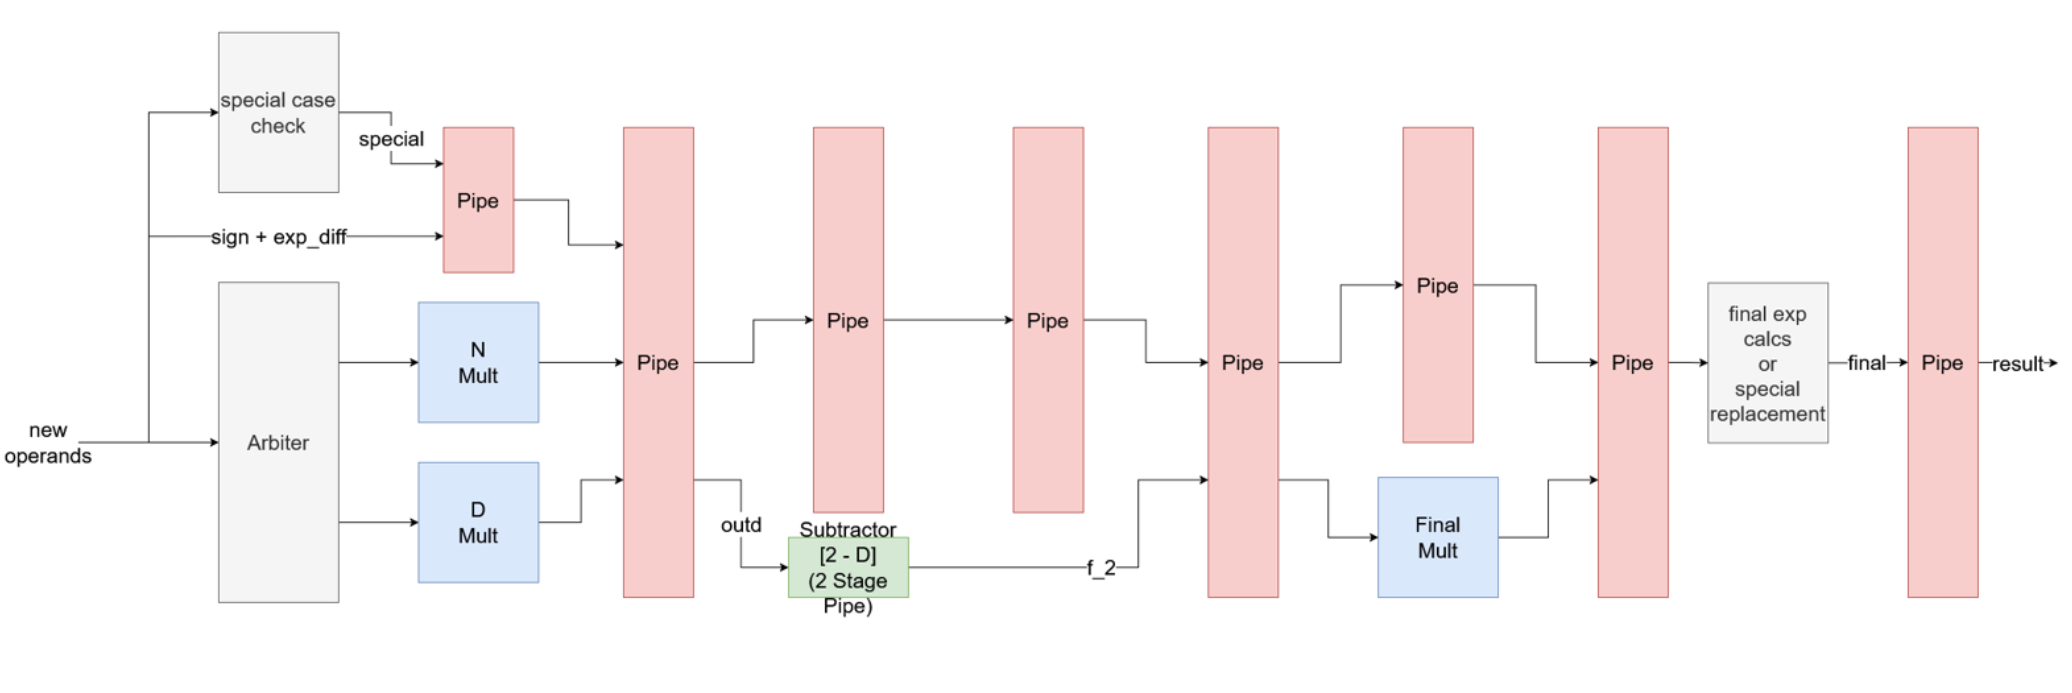
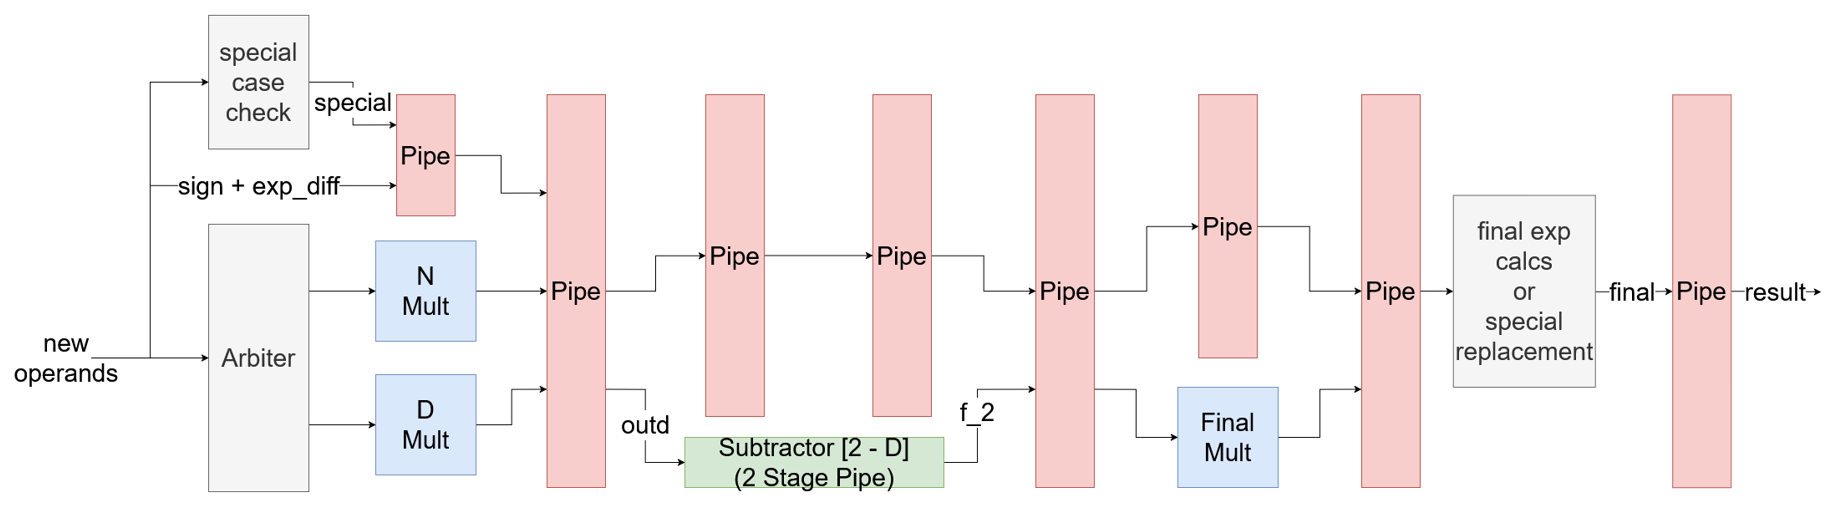
saving

diff --git a/docs/src/architecture/divider.md b/docs/src/architecture/divider.md
@@ -9,8 +9,53 @@ Roy, T. D. (2019). Implementation of Goldschmidt's algorithm with hardware reduc
 The Divider is a fully pipelined floating-point division unit optimized for the BF16 (Brain Floating Point) format. Rather than using slow, traditional digit-recurrence algorithms (like SRT or restoring division) which require long and deep subtraction chains, this implements the **Goldschmidt Division Algorithm**.
 To optimize for PPA (Power, Performance, Area) targets within the accelerator, we implement two distinct divider implementations that share the same underlying algorithm: an Area-Optimized 2-Multiplier design, and a Throughput-Optimized 3-Multiplier design.
 
-### Shared Algorithm & The "Magic Number"
+## Goldschmidt Algorithm
 The Goldschmidt algorithm computes N / D by repeatedly multiplying both the numerator (N) and denominator (D) by a sequence of factors (F) such that the denominator converges toward 1.0. As D approaches 1.0, N approaches the final quotient.
+
+```
+      F0 = initial guess;
+
+Iteration 1: N1 = N * F0 
+             D1 = D * F0 
+             F1 = 2.0 - D1
+
+Iteration 2: N2 = N1 * F1 
+             D2 = D1 * F1
+             F2 = 2.0 - F1
+
+Iteration 3: ....
+             ....
+             ....
+
+Iteration i-1: ...
+
+Iteration i: N(i) = N(i-1) * F(i-1)
+
+Final Answer: N(i)
+```
+
+While this can be done infinitely, accuracy does not increase infinitely. We found that in practice generally after 2-3 iterations a set of bf16 values the convergence caps and no longer changes the value.
+
+The primary differences in approaching the goldschmidt algorithm is how to get this initial guess. There are two methods that are known to be effective, an LUT table and using "magic number".
+
+### LUT
+
+The LUT method has an array of preset values, in which the initial guess of the goldschmidt method is selected through the mantissa bits directly mapping into an index value in the LUT table. 
+
+The LUT is the most commonly referred to method in selecting the initial guess for division, especially if area is not a large concern. Below is a python script that shows the methodology behind the generation. All that is being done is an accurate "in between" value between each step to best bring a denominator to the value of 1. 
+```
+entries = 16
+def generate_lut(size):
+    step = 1.0 / size
+    seeds = torch.zeros(size, dtype=torch.bfloat16)
+    for i in range(size):
+        a = 1.0 + (i * step)
+        b = 1.0 + ((i + 1) * step)
+        seeds[i] = 2.0 / (a + b)
+    return seeds
+```
+
+### The "Magic Number"
 
 To minimize the hardware iterations required, the algorithm needs a highly accurate initial guess of the reciprocal (1/D). Instead of wasting silicon area on a large Lookup Table (LUT) for this initial guess, both divider implementations utilize a **Constant Subtraction Trick (Magic Number)**. By exploiting the structure of the IEEE-754 / BF16 floating-point format, we can approximate the inverse by subtracting the denominator from a magic constant:
 
@@ -18,23 +63,68 @@ To minimize the hardware iterations required, the algorithm needs a highly accur
 
 This specific magic number (`16'h7EF3`) was calculated using a python script on all 16,384 possible BF16 mantissas. After two iterations, this specific number proved to have the lowest average [ULP](https://www.emmtrix.com/wiki/ULP_Difference_of_Float_Numbers) while also maintaining a **MAX ULP of 2**. This number is specific to BF16 and cannot be parameterized. An FP16 equivalent would be (`16'h775F`) however this would require 3 iterations of the goldschmidt algorithm.
 
-**The Iteration 2 Optimization:**
-Through testing in Python simulations, it is determined that only 2 iterations are needed to ensure a maximum ULP of 2. Because the algorithm only requires 2 iterations, the mathematical sequence looks like this:
+## Finalized Design Choices
+
+### Simulation
+Before deciding which design we'd stick to, we utilized a Python simulation to see if our math would work, as well giving ourselves the perspective to pick the design best suited for our needs. 
+
+Below is a picture of the simulated ULP error at each iteration of the Goldschmidt division algorithm using both a magic number and LUT approach. This was simulated using the PyTorch library in Python. Example pseudo code and simulated graph is below. 
+```
+def goldschmidt_div(method, dividend, divisor, iterations):
+    actual_q = float(n)/float(d)
+
+    if d == 0: return torch.tensor(float('nan'))
+
+    # Save Sign
+    sign = MSB of bf16
+    abs_n, abs_d = torch.tensor(abs(n), dtype=torch.bfloat16), torch.tensor(abs(d), dtype=torch.bfloat16)
+
+    mantissa_n, exp_n = math.frexp(abs_n.item())
+    mantissa_d, exp_d = math.frexp(abs_d.item())
+
+    # Normalization
+    n_w = mantissa_n * 2.0
+    d_w = mantissa_d * 2.0
+    if(LUT method)
+      idx = mantissa bits
+      f = lut[idx]
+    if(Magic method)
+      f = 0x7EF3 - abs_d
+
+    for _ in range(iterations):
+      n_w = n_w * f
+      d_w = d_w * f
+      f = 2.0 - d_w
+
+    final_val = sign * n_w * (2.0**(exp_n - exp_d))
+    res_bf = final_val.to(torch.bfloat16)
+    ulp_err = calculate_ulp_error(final_val, actual_q)
+    return res_bf, ulp_err
+```
+
+![ULP_Analysis](../img/Goldschmidt_ULP_Analysis.jpg)
+
+The LUT simulated is only a 16 elements large, which is the smallest LUT possible while maintaining a maximum of 1 ULP. Obviously a larger LUT (most appropriately a 128 elemnt one for each mantissa bit) will greatly improve average ULP, but it comes at the great cost of significaltly more area per divider. 
+
+As it can be seen the LUT methodology outperforms the magic number in worst ULP, but but loses in consistancy. It is important to note that we are creating an alternative to the IEEE slow method, in which it takes 11 cycles with perfect accuracy, but is neither pipelined, nor able to take multiple inputs in flight. Our goal is speed and efficiency. The LUT with more area is on average worse than the magic number, and would require an even larger area cost to simply exceed the magic number in both average ULP and worst ULP. These area costs are simply not worth the marginal accuracy benefits that can be provided with a singular value. 
+
+
+**Final Design Choices:**
+In our python simulation we also see that among both methodologies it is determined that only 2 iterations are needed to ensure a maximum ULP of 1-2 and any more iterations do not effect the ULP. Because the algorithm only requires 2 iterations, the mathematical sequence looks like this:
 
 ```
       F0 = 16'h7EF3 - D;
 
-Iteration 1: N1 = N * F0 |
-             D1 = D * F0 |
+Iteration 1: N1 = N * F0 
+             D1 = D * F0 
              F1 = 2.0 - D1
 
-Iteration 2: N2 = N1 * F1 |
-             D2 = D1 * F1
+Iteration 2: N2 = N1 * F1
 
       Result = N2
 ```
 
-### 2 Multiplier Design
+## 2 Multiplier Design
 *Primary Author: Akhil Yada*
 
 This architecture instantiates **2 Multipliers and 1 Subtractor** and utilizes a Loopback Pipeline Architecture (a "Carousel") to share the hardware across both iterations.
@@ -61,9 +151,9 @@ Because every division must pass through the shared 1-cycle multipliers and 2-cy
 
 Below is a block diagram and RTL diagram of the design
 
-![2MulDesign](img/2-Multiplier-Divider.png)
+![2MulDesign](../img/2-Multiplier-Divider.png)
 
-### 3 Multiplier Design
+## 3 Multiplier Design
 *Primary Author: Brian Zhuang*
 
 This architecture instantiates **3 Multipliers and 1 Subtractor** and is completely pipelined. 
@@ -87,17 +177,13 @@ The pipe enable signals controls traffic and goes low when backpressure occurs (
 The divider being fully pipelined achieves an **Effective CPI of 1.0** with max throughput. It also acheieves a max ULP of 2.0 and a average ULP of around 0.5, a value slightly lower than predicted.
 
 Below is a block diagram and RTL diagram of the design
-![3MulDesign](img/pipeline_block.png)
+![3MulBlock](../img/pipeline_block.png)
+![3MulRTL](../img/pipeline_rtl.png)
 
-### Comparison
+## Comparison
 Below is a table of results for both dividers. The ULP numbers are pulled from a test of all possible mantissas (16,384). Note that subnormals have been excluded as their ULP numbers will always be 0. The target frequency to obtain the synthesis number was 555 MHz, and the process node was MITLL90nm.
 
 | Divider Version | # of 0 ULP | # of 1 ULP | # of 2 ULP | Avg ULP | Max ULP | Total Area (um^2) |
 |---|---|---|---|---|---|---|
 | 2-Multiplier Design | 8,687 | 7,052 | 645 | 0.51 | 2 | 18433.437 |
 | 3-Multiplier Design | 8,687 | 7,052 | 645 | 0.51 | 2 | 22283.246 |
-
-### Simulation
-Below is a picture of the simulated ULP error at each iteration of the Goldschmidt division algorithm using both a magic number and LUT approach. This was simulated using the PyTorch library in Python.
-
-![ULP_Analysis](img/Goldschmidt_ULP_Analysis.jpg)

diff --git a/docs/src/architecture/reciprocal.md b/docs/src/architecture/reciprocal.md
@@ -9,7 +9,8 @@ The Reciprocal Unit largely follows the implemenation outlined in `divider.md`
 ### Algorithm & LUT
 The main difference between the reciprocal unit and the divider lies in the handling of the numerator. Because the numerator is guaranteed to be 1, the need for a multiplier for the numerator is eliminated and the N1 can be effectively written as F0 (the initial guess). With this new area, we can use a small 16-entry LUT to get an initial guess for the factor that will guarantee a max ULP of 1. The initial guess is indexed using the most significant bits of the denominator's manitssa. Below is a code snippet of the generation used to create the LUT.
 
-```entries = 16
+```
+entries = 16
 def generate_lut(size):
     step = 1.0 / size
     seeds = torch.zeros(size, dtype=torch.bfloat16)
@@ -31,11 +32,11 @@ with open("lut_values.txt", "w") as f:
 **The Iteration 2 Optimization:**
 Because the algorithm only requires 2 iterations, the mathematical sequence looks like this:
 ```
-* **Iteration 1:** F0 = LUT guess   |
-                   D1 = D * F0      |
+* **Iteration 1:** F0 = LUT guess   
+                   D1 = D * F0      
                    F1 = 2.0 - D1
 
-* **Iteration 2:** Result = F0 * F1 |
+* **Iteration 2:** Result = F0 * F1 
 ```
 ### 2 Multiplier Design
 *Primary Author: Brian Zhuang*
@@ -73,4 +74,4 @@ Below is a table of results for the reciprocal unit. The ULP numbers are pulled 
 ### Simulation
 Below is a picture of the simulated ULP error at each iteration of the Goldschmidt division algorithm using both a magic number and LUT approach. This was simulated using the PyTorch library in Python.
 
-![img](img/Goldschmidt_ULP_Analysis.jpg)
+![img](../img/Goldschmidt_ULP_Analysis.jpg)
